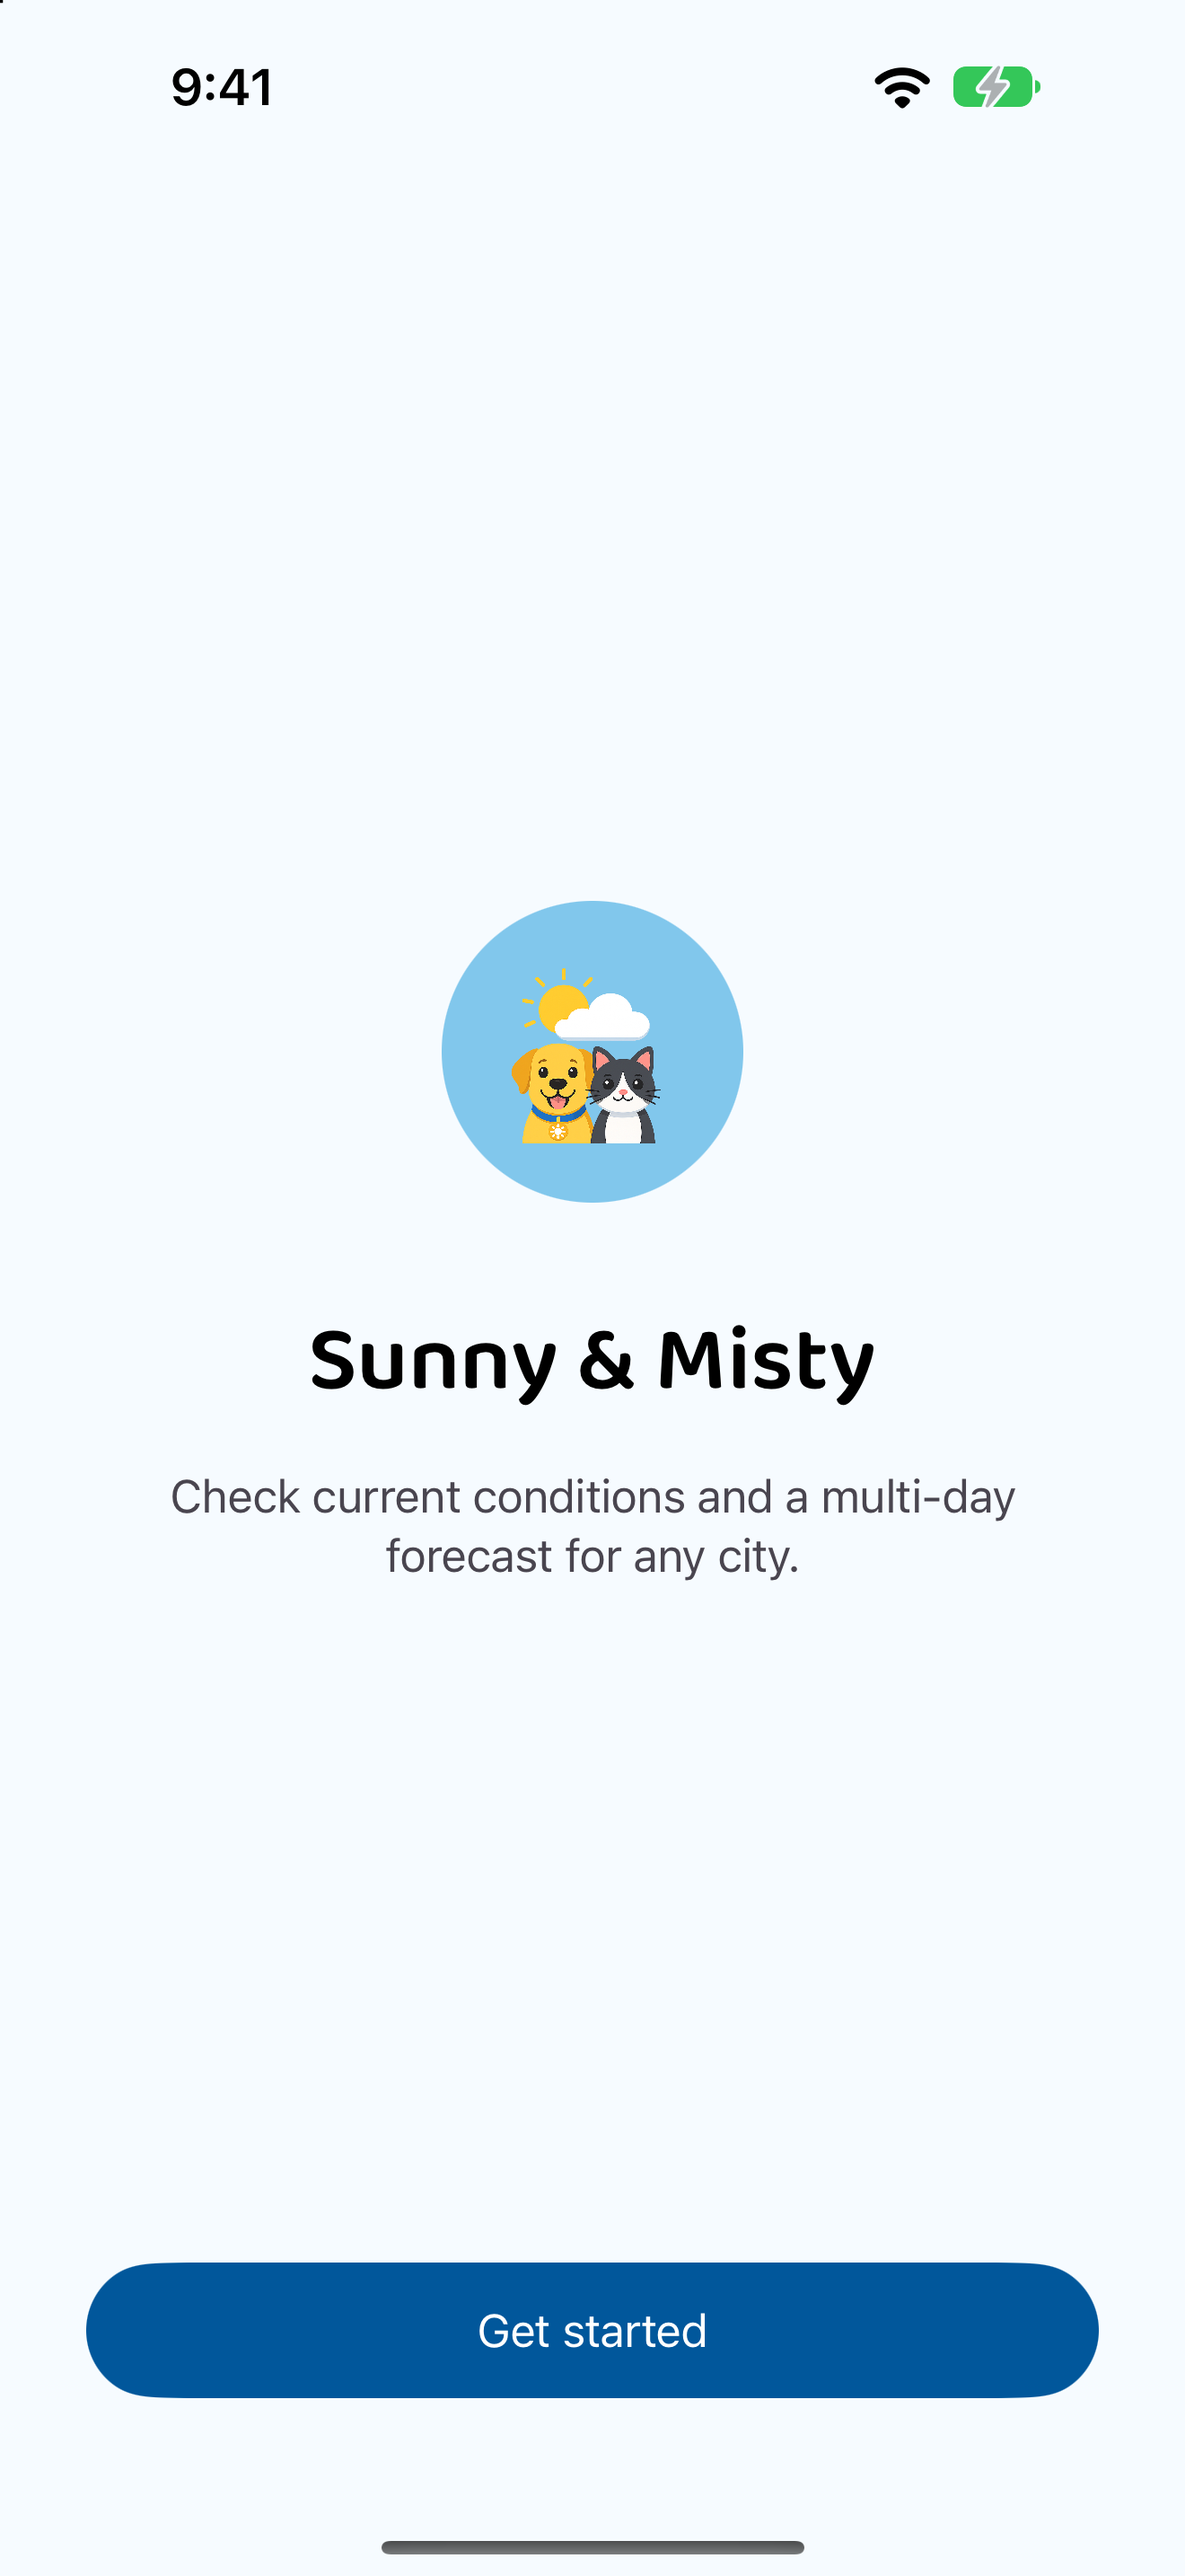
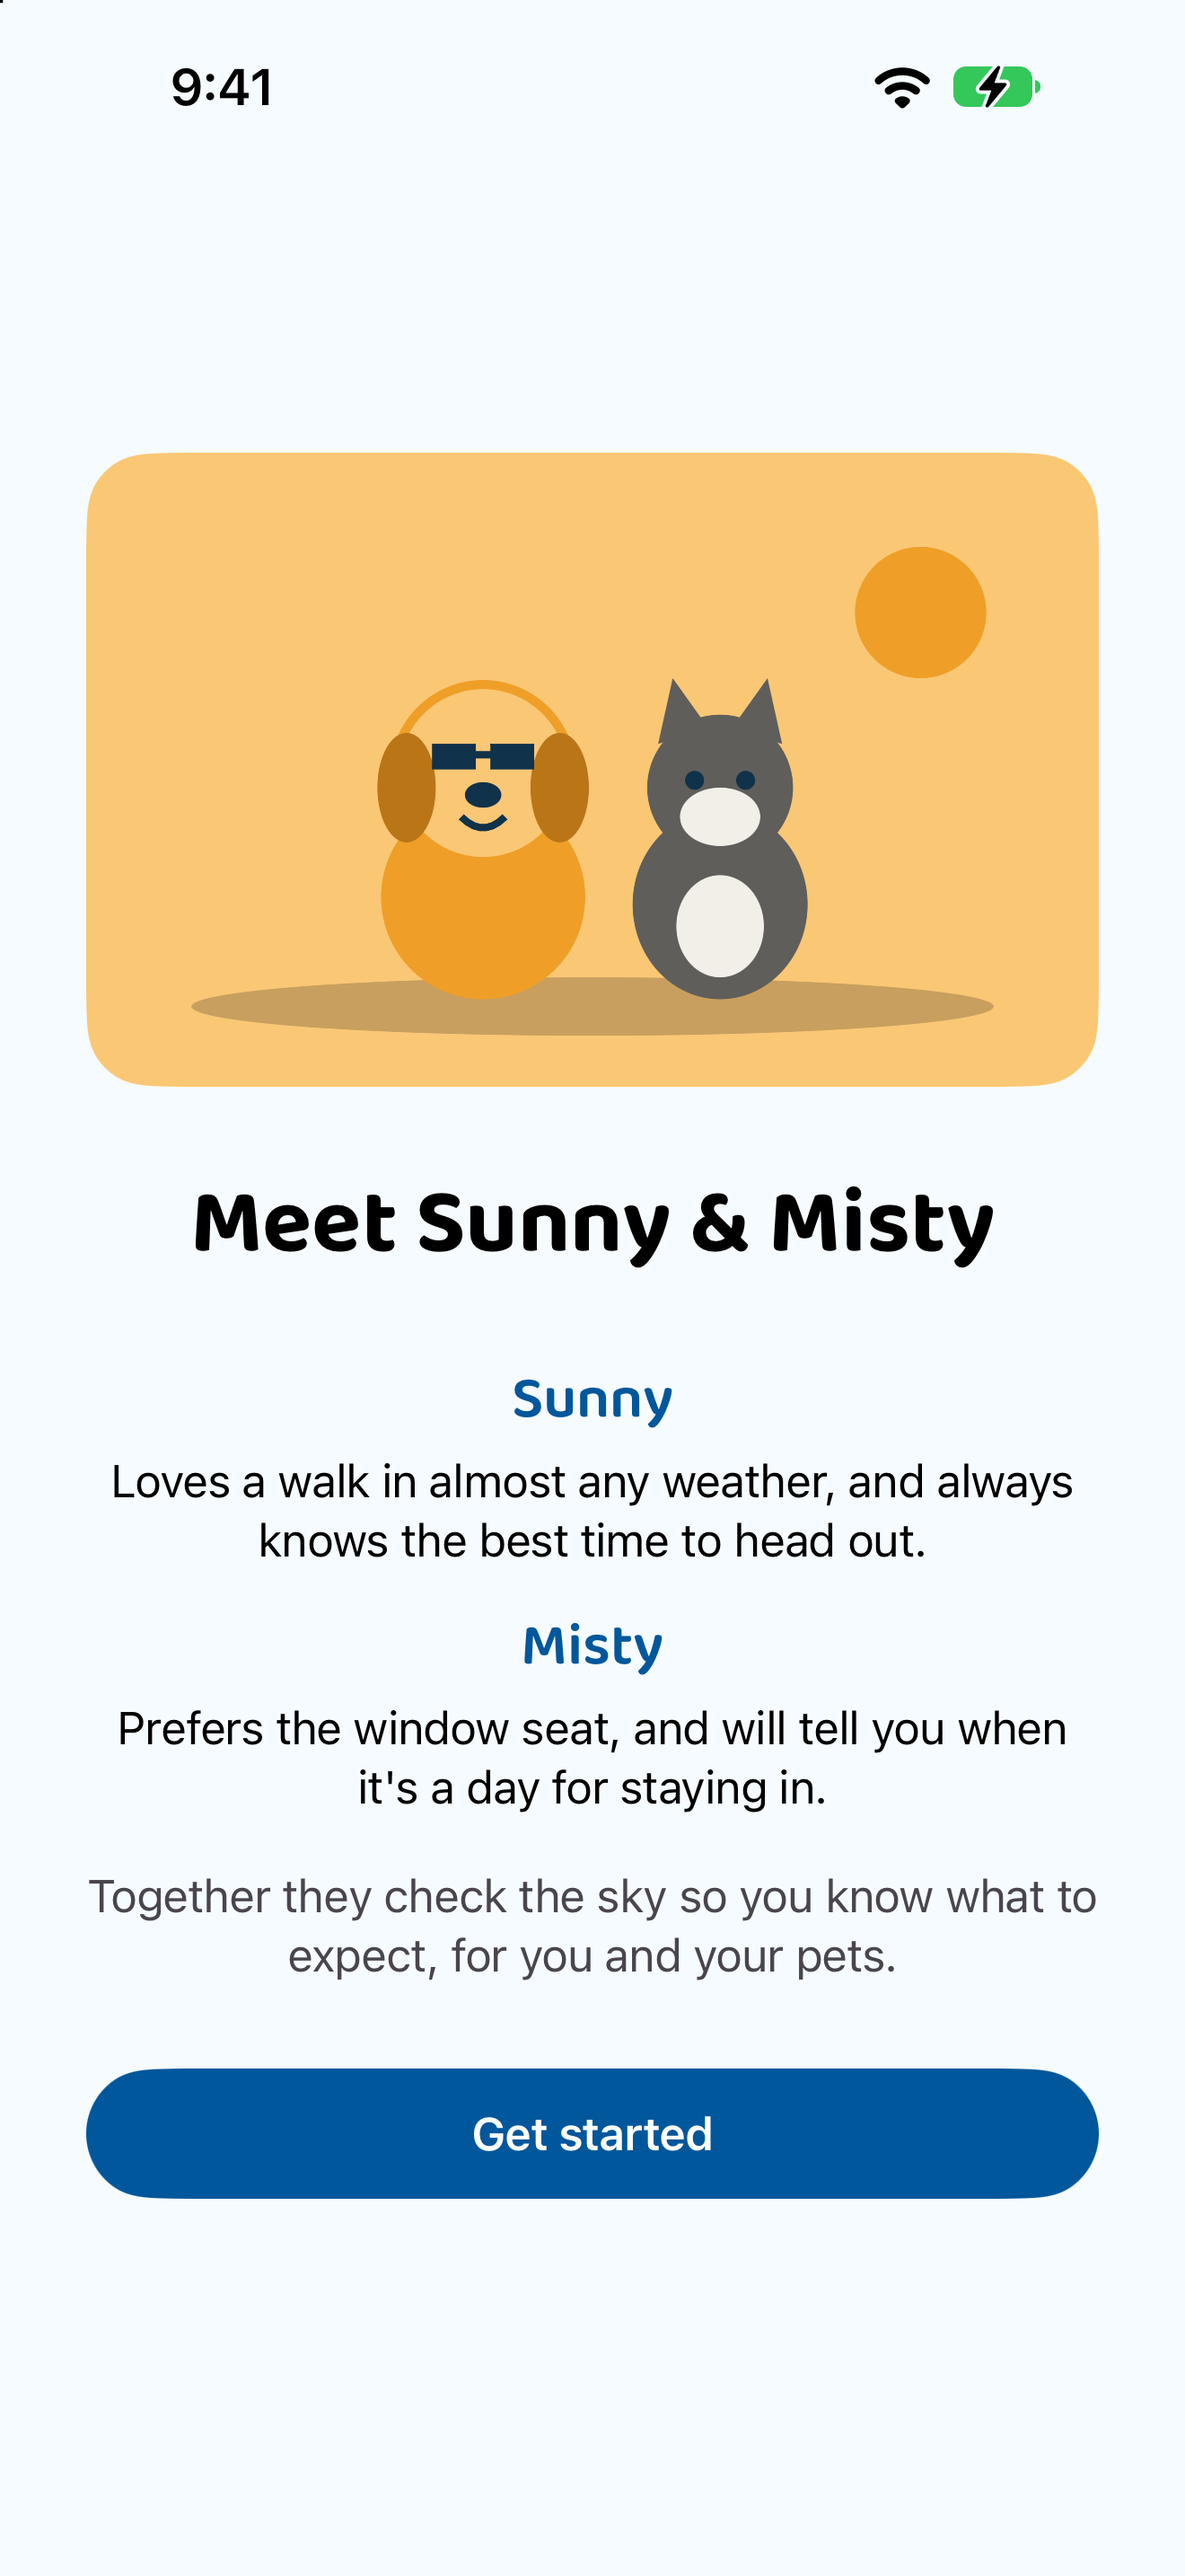
Store readiness: privacy link, fresh notifications, privacy manifest
- Settings links to sunnyandmisty.com/privacy; the radar's user agent and
  the listing notes point at sunnyandmisty.com.
- Daily notifications no longer repeat fixed text. A week is queued with
  one-off triggers: the next one at each time carries the weather, the rest
  say "Tap to see your weather update.", so a notification never shows
  weather from days ago when iOS holds back background time.
- The notification prompt says "your selected city", which is what the
  app notifies for.
- PrivacyInfo.xcprivacy declares Device ID and Coarse Location for
  Analytics, matching the App Store privacy label.
- Retook the 01-welcome App Store screenshot with the current onboarding.

diff --git a/Cats&Dogs/Services/WeatherNotificationScheduler.swift b/Cats&Dogs/Services/WeatherNotificationScheduler.swift
@@ -7,8 +7,15 @@ final class WeatherNotificationScheduler {
     static let shared = WeatherNotificationScheduler()
 
     private let center = UNUserNotificationCenter.current()
-    private let notificationHours = [9, 13, 19]
-    private var requestIdentifiers: [String] { notificationHours.map { "weather_daily_\($0)" } }
+    nonisolated private static let notificationHours = [9, 13, 19]
+    /// How many days of notifications are queued. iOS gives no guaranteed background time, so the
+    /// queue has to outlast the gaps between refreshes; each refresh replaces all of it.
+    nonisolated private static let daysQueued = 7
+    /// The text for queued notifications whose weather isn't known yet.
+    nonisolated static let fallbackContent = (title: "Sunny & Misty", body: "Tap to see your weather update.")
+    private var requestIdentifiers: [String] {
+        Self.plannedNotifications(after: Date()).map(\.identifier)
+    }
 
     private init() {}
 
@@ -51,41 +58,65 @@ final class WeatherNotificationScheduler {
         if let weather {
             content = buildNotificationContent(weather: weather, todayForecast: todayForecast)
         } else {
-            content = ("Sunny & Misty", "Tap to see your weather update.")
+            content = Self.fallbackContent
         }
 
         await scheduleDailyNotifications(title: content.title, body: content.body)
     }
 
-    /// Replaces the pending 9 AM / 1 PM / 7 PM notifications with the given text. When Remote Config
-    /// switches them off, the pending ones are removed so none fire.
+    /// Replaces the pending 9 AM / 1 PM / 7 PM notifications. The next one at each time gets the given
+    /// text; the ones after it get the fallback, since a repeating notification would keep showing
+    /// this reading for days if iOS doesn't give the app time to refresh. When Remote Config switches
+    /// them off, the pending ones are removed so none fire.
     func scheduleDailyNotifications(title: String, body: String) async {
         removePendingDailyNotifications()
         guard RemoteConfigRepository.shared.dailyWeatherNotificationsEnabled, await isAuthorized() else { return }
 
         // The brand look: the pets in today's mood, as on the app's top card.
         let picture = petsPicture(preferences: .shared)
-        for hour in notificationHours {
-            var dateComponents = DateComponents()
-            dateComponents.hour = hour
-            dateComponents.minute = 0
-
-            let trigger = UNCalendarNotificationTrigger(dateMatching: dateComponents, repeats: true)
+        let calendar = Calendar.current
+        for planned in Self.plannedNotifications(after: Date(), calendar: calendar) {
+            let trigger = UNCalendarNotificationTrigger(
+                dateMatching: calendar.dateComponents([.year, .month, .day, .hour, .minute], from: planned.date),
+                repeats: false
+            )
             let notification = UNMutableNotificationContent()
-            notification.title = title
-            notification.body = body
+            notification.title = planned.isNext ? title : Self.fallbackContent.title
+            notification.body = planned.isNext ? body : Self.fallbackContent.body
             notification.sound = .default
-            if let picture, let attachment = Self.attachment(picture, hour: hour) {
+            if planned.isNext, let picture, let attachment = Self.attachment(picture, identifier: planned.identifier) {
                 notification.attachments = [attachment]
             }
 
-            let request = UNNotificationRequest(
-                identifier: "weather_daily_\(hour)",
-                content: notification,
-                trigger: trigger
-            )
+            let request = UNNotificationRequest(identifier: planned.identifier, content: notification, trigger: trigger)
             try? await center.add(request)
         }
+    }
+
+    struct PlannedNotification: Equatable {
+        let identifier: String
+        let date: Date
+        /// The next notification at its time of day, the only one whose weather is current.
+        let isNext: Bool
+    }
+
+    /// The queued notifications after `now`: each notification time on each of the next
+    /// `daysQueued` days. The next one at each time keeps the original `weather_daily_<hour>`
+    /// identifier, which also replaces the repeating requests older versions scheduled.
+    nonisolated static func plannedNotifications(after now: Date, calendar: Calendar = .current) -> [PlannedNotification] {
+        notificationHours.flatMap { hour -> [PlannedNotification] in
+            guard let next = calendar.nextDate(
+                after: now,
+                matching: DateComponents(hour: hour, minute: 0),
+                matchingPolicy: .nextTime
+            ) else { return [] }
+            return (0..<daysQueued).compactMap { day in
+                guard let date = calendar.date(byAdding: .day, value: day, to: next) else { return nil }
+                let identifier = day == 0 ? "weather_daily_\(hour)" : "weather_daily_\(hour)_\(day)"
+                return PlannedNotification(identifier: identifier, date: date, isNext: day == 0)
+            }
+        }
+        .sorted { $0.date < $1.date }
     }
 
     /// A PNG of the pets in the mood of the active city's cached weather; nil before there's any.
@@ -109,9 +140,9 @@ final class WeatherNotificationScheduler {
     }
 
     /// Each notification needs its own file: iOS moves an attachment's file into its own store.
-    private static func attachment(_ png: Data, hour: Int) -> UNNotificationAttachment? {
+    private static func attachment(_ png: Data, identifier: String) -> UNNotificationAttachment? {
         let url = FileManager.default.temporaryDirectory
-            .appendingPathComponent("notification-pets-\(hour)-\(UUID().uuidString).png")
+            .appendingPathComponent("notification-pets-\(identifier)-\(UUID().uuidString).png")
         do {
             try png.write(to: url)
             return try UNNotificationAttachment(identifier: "pets", url: url)

diff --git a/Cats&DogsTests/WeatherNotificationSchedulerTests.swift b/Cats&DogsTests/WeatherNotificationSchedulerTests.swift
@@ -1,0 +1,49 @@
+import XCTest
+@testable import Cats_Dogs
+
+final class WeatherNotificationSchedulerTests: XCTestCase {
+    private var calendar: Calendar = {
+        var calendar = Calendar(identifier: .gregorian)
+        calendar.timeZone = TimeZone(identifier: "America/New_York")!
+        return calendar
+    }()
+
+    private func date(_ day: Int, _ hour: Int, _ minute: Int = 0) -> Date {
+        calendar.date(from: DateComponents(year: 2026, month: 1, day: day, hour: hour, minute: minute))!
+    }
+
+    func testOnlyTheNextNotificationAtEachTimeCarriesTheWeather() {
+        // 10:30 AM on the 1st: 9 AM has passed, so its next one is tomorrow.
+        let planned = WeatherNotificationScheduler.plannedNotifications(after: date(1, 10, 30), calendar: calendar)
+        let next = planned.filter(\.isNext)
+
+        XCTAssertEqual(next.map(\.date), [date(1, 13), date(1, 19), date(2, 9)])
+        XCTAssertEqual(next.map(\.identifier), ["weather_daily_13", "weather_daily_19", "weather_daily_9"])
+    }
+
+    func testAWeekIsQueuedAtEachTimeWithoutRepeating() {
+        let planned = WeatherNotificationScheduler.plannedNotifications(after: date(1, 10, 30), calendar: calendar)
+
+        XCTAssertEqual(planned.count, 21)
+        XCTAssertEqual(Set(planned.map(\.identifier)).count, 21, "Identifiers must be unique")
+        XCTAssertEqual(planned.first?.date, date(1, 13))
+        XCTAssertEqual(planned.last?.date, date(8, 9))
+        XCTAssertEqual(planned.map(\.date), planned.map(\.date).sorted())
+    }
+
+    func testANotificationTimeThatIsNowIsNotRescheduledForNow() {
+        let planned = WeatherNotificationScheduler.plannedNotifications(after: date(1, 9), calendar: calendar)
+
+        XCTAssertEqual(planned.first { $0.identifier == "weather_daily_9" }?.date, date(2, 9))
+    }
+
+    func testTheQueueSurvivesADaylightSavingChange() {
+        // US clocks go forward at 2 AM on March 8, 2026.
+        let planned = WeatherNotificationScheduler.plannedNotifications(
+            after: calendar.date(from: DateComponents(year: 2026, month: 3, day: 7, hour: 20))!,
+            calendar: calendar
+        )
+
+        XCTAssertTrue(planned.allSatisfy { [9, 13, 19].contains(calendar.component(.hour, from: $0.date)) })
+    }
+}

diff --git a/Cats&Dogs/Views/RadarView.swift b/Cats&Dogs/Views/RadarView.swift
@@ -355,7 +355,7 @@ private enum MapTileLoader {
     private nonisolated static let session: URLSession = {
         let version = Bundle.main.object(forInfoDictionaryKey: "CFBundleShortVersionString") as? String ?? "1.0"
         let configuration = URLSessionConfiguration.default
-        configuration.httpAdditionalHeaders = ["User-Agent": "SunnyAndMisty/\(version) (+https://fangjet.com/weather)"]
+        configuration.httpAdditionalHeaders = ["User-Agent": "SunnyAndMisty/\(version) (+https://sunnyandmisty.com)"]
         configuration.urlCache = URLCache(memoryCapacity: 8 * 1024 * 1024, diskCapacity: 100 * 1024 * 1024)
         configuration.requestCachePolicy = .useProtocolCachePolicy
         return URLSession(configuration: configuration)

diff --git a/Cats&Dogs/Views/OnboardingNotificationView.swift b/Cats&Dogs/Views/OnboardingNotificationView.swift
@@ -21,7 +21,7 @@ struct OnboardingNotificationView: View {
                 .padding(.top, 20)
                 .accessibilityAddTraits(.isHeader)
 
-            Text("Allow Sunny & Misty to send you daily weather updates for your saved locations.")
+            Text("Allow Sunny & Misty to send you daily weather updates for your selected city.")
                 .font(.body)
                 .foregroundStyle(Color.secondaryText)
                 .multilineTextAlignment(.center)

diff --git a/Cats&Dogs/Views/SettingsView.swift b/Cats&Dogs/Views/SettingsView.swift
@@ -116,7 +116,7 @@ struct SettingsView: View {
                     openURL(URL(string: "https://open-meteo.com")!)
                 }
                 Button("Privacy policy") {
-                    openURL(URL(string: "https://fangjet.com/weather")!)
+                    openURL(URL(string: "https://sunnyandmisty.com/privacy")!)
                 }
             } header: {
                 sectionHeader("About")

diff --git a/README.md b/README.md
@@ -103,7 +103,7 @@ and scheme keep the original Cats&Dogs name on purpose. The bundle ID is `com.fa
    - Clear cached weather
    - Privacy: **Share usage statistics** turns analytics on or off. It starts on, except in the EU,
      EEA, UK and Switzerland, where it starts off until the user turns it on
-   - OpenWeather and Open-Meteo attribution, and [privacy policy](https://fangjet.com/weather)
+   - OpenWeather and Open-Meteo attribution, and [privacy policy](https://sunnyandmisty.com/privacy)
 
 ### Where the data comes from
 
@@ -135,13 +135,15 @@ a single `BGAppRefreshTask`. Each time iOS grants background time it:
 
 1. fetches current weather and the forecast for the active city,
 2. writes them to the per-city cache, so the app opens with fresh data,
-3. rewrites the three pending notifications with the fresh text, and
+3. rewrites the pending notifications with the fresh text, and
 4. requests the next run after `weather_refresh_interval_minutes` (default 30, as on Android), or 15
    minutes after a failed fetch.
 
-The notifications themselves stay on calendar triggers, so they always arrive on time; their text is
-as fresh as the most recent background run. They are also rewritten whenever the app itself loads
-new data. The fetch-then-notify decision logic is `NotificationWorkerLogic`, the same logic as on
+The notifications themselves are on calendar triggers, so they always arrive on time. A week of them
+is queued, none repeating: the next one at each time carries the latest weather, and the rest say
+"Tap to see your weather update." so a notification never shows weather from days ago when iOS
+holds back background time. Each background run, and each time the app itself loads new data,
+replaces the whole queue. The fetch-then-notify decision logic is `NotificationWorkerLogic`, the same logic as on
 Android, with the same tests.
 
 > **iOS decides when background refresh runs.** The interval is a minimum, not a schedule: iOS
@@ -363,7 +365,7 @@ Firebase 13 needs Xcode 26.1 (Swift 6.2.1). The project stays on 12.x until CI m
 - `ITSAppUsesNonExemptEncryption` is false in `Info.plist`, so uploads skip the export-compliance
   question.
 - The app icons have no alpha channel, which App Store Connect requires.
-- The privacy policy is at [fangjet.com/weather](https://fangjet.com/weather), linked from Settings.
+- The privacy policy is at [sunnyandmisty.com/privacy](https://sunnyandmisty.com/privacy), linked from Settings.
 
 ## Credits
 

diff --git a/docs/app-store/listing.md b/docs/app-store/listing.md
@@ -53,9 +53,9 @@ Copy each field into App Store Connect. Character counts are checked against App
 
 | Field | Value |
 |---|---|
-| Support URL | https://fangjet.com/contact |
+| Support URL | https://sunnyandmisty.com/support |
 | Marketing URL (optional) | https://sunnyandmisty.com |
-| Privacy policy URL | https://fangjet.com/weather |
+| Privacy policy URL | https://sunnyandmisty.com/privacy |
 
 **Screenshots** (both sets are required, because the app runs on iPhone and iPad):
 - 6.9-inch iPhone (1320 × 2868) from `screenshots/app-store/`, suggested order 03, 04, 02, 05, 06 (01 optional)
